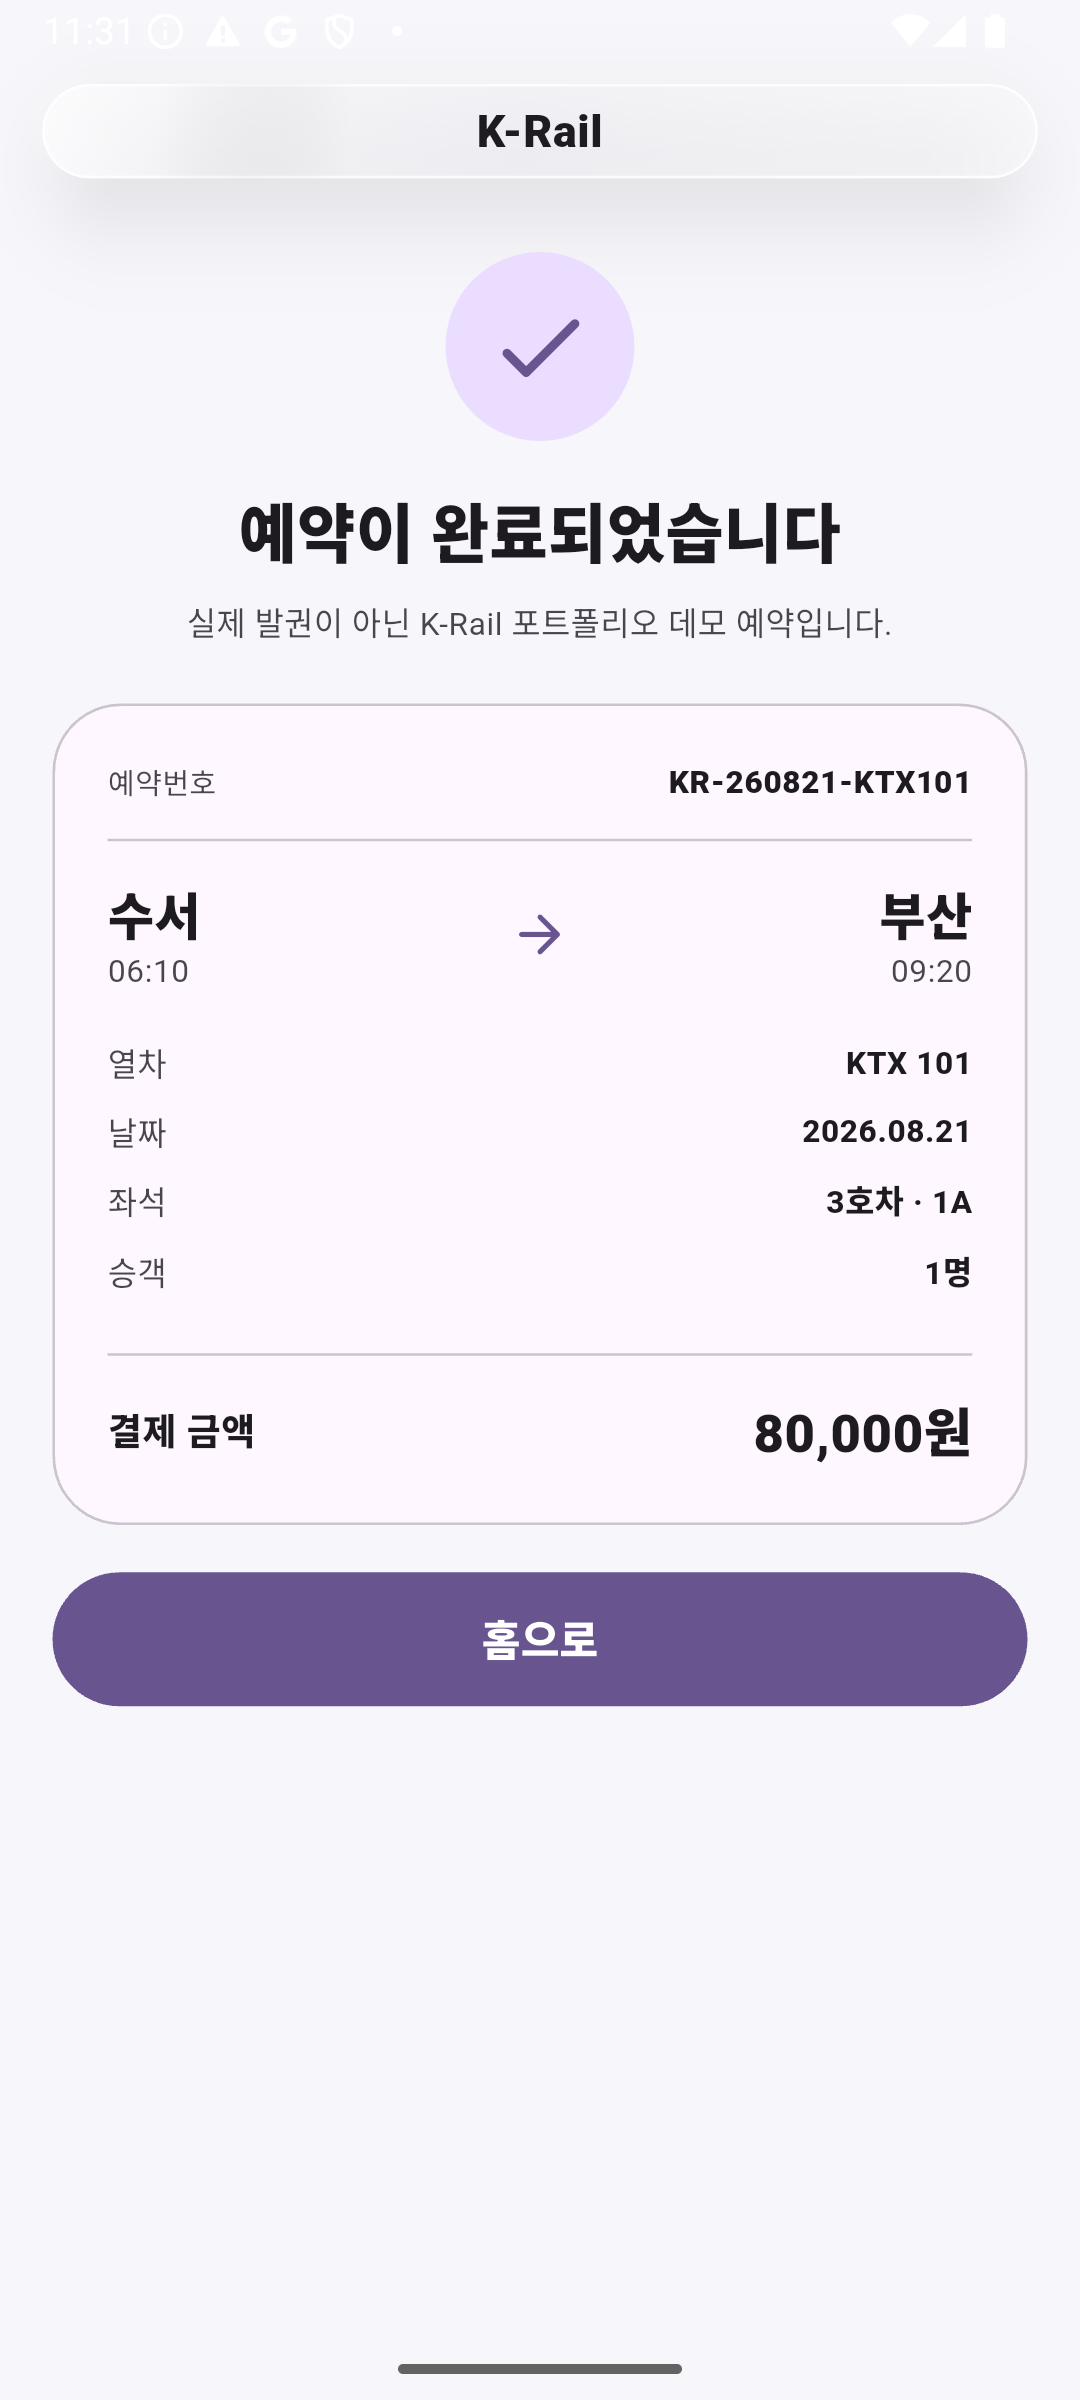
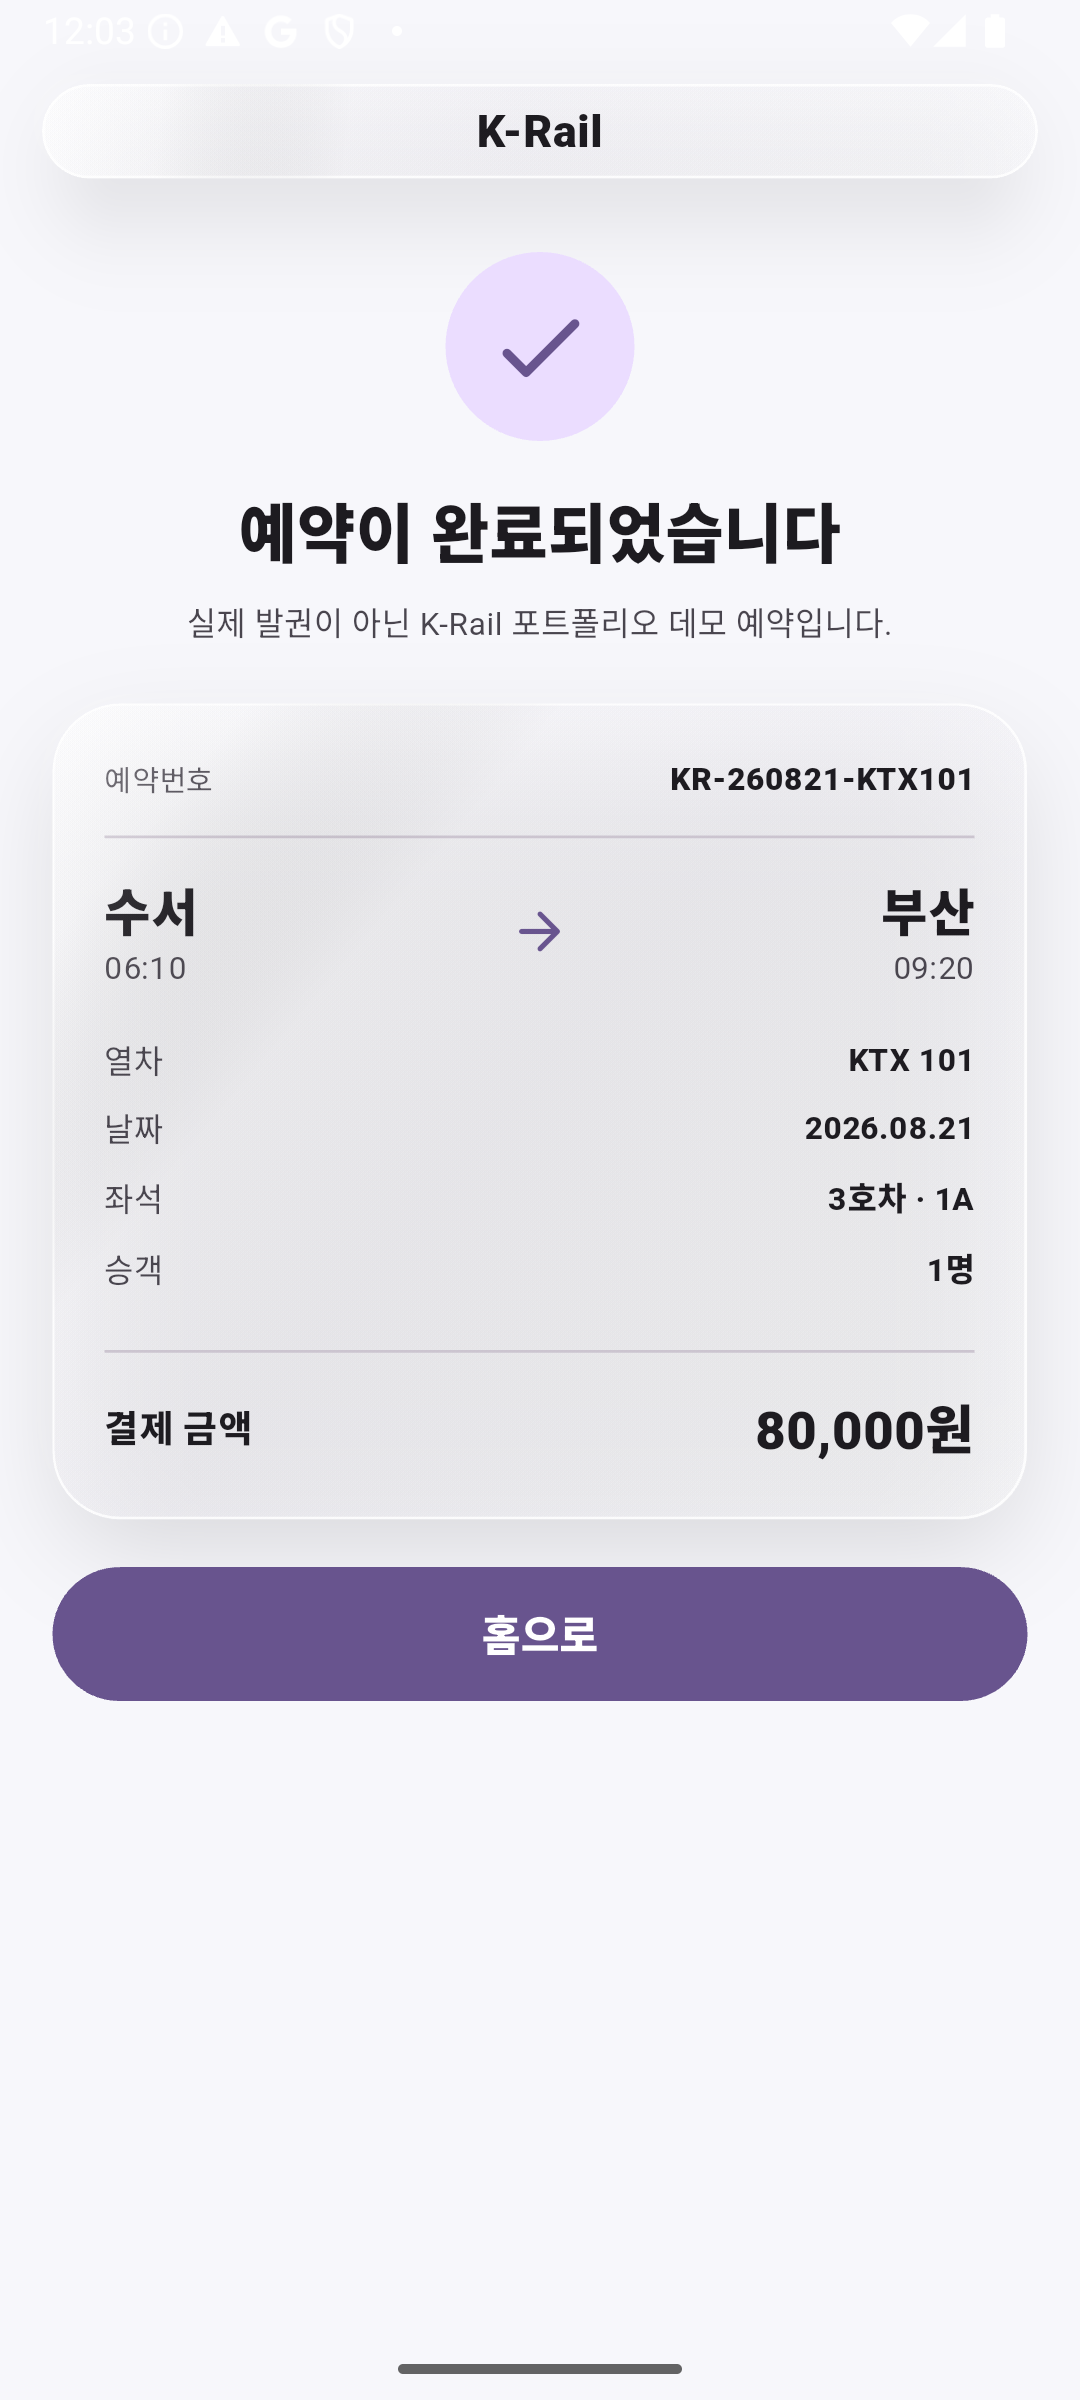
Refine liquid glass portfolio surfaces

Changed region(s): [[0.0917, 0.3125, 0.9167, 0.7188], [0.0611, 0.3125, 0.3972, 0.5312]]

diff --git a/lib/train_schedule.dart b/lib/train_schedule.dart
@@ -167,74 +167,72 @@ class _TrainSchedulePageState extends State<TrainSchedulePage>
     final scheme = Theme.of(context).colorScheme;
     final date = DateFormat('M월 d일 (E)', 'ko').format(widget.departureDate);
 
-    return Container(
-      width: double.infinity,
-      margin: const EdgeInsets.fromLTRB(16, 12, 16, 10),
-      padding: const EdgeInsets.all(18),
-      decoration: BoxDecoration(
-        color: scheme.primaryContainer,
+    return Padding(
+      padding: const EdgeInsets.fromLTRB(16, 12, 16, 10),
+      child: AppGlassSurface(
         borderRadius: BorderRadius.circular(24),
-      ),
-      child: Column(
-        children: [
-          Row(
-            children: [
-              Expanded(
-                child: _stationSummary(
-                  AppLocalizations.of(context).translate('출발'),
-                  widget.departureStation,
-                  CrossAxisAlignment.start,
-                ),
-              ),
-              Padding(
-                padding: const EdgeInsets.symmetric(horizontal: 8),
-                child: Icon(
-                  Icons.arrow_forward_rounded,
-                  color: scheme.primary,
-                ),
-              ),
-              Expanded(
-                child: _stationSummary(
-                  AppLocalizations.of(context).translate('도착'),
-                  widget.arrivalStation,
-                  CrossAxisAlignment.end,
-                ),
-              ),
-            ],
-          ),
-          const SizedBox(height: 14),
-          Container(
-            padding: const EdgeInsets.symmetric(horizontal: 12, vertical: 10),
-            decoration: BoxDecoration(
-              color: scheme.surface.withValues(alpha: 0.72),
-              borderRadius: BorderRadius.circular(14),
-            ),
-            child: Row(
+        blurSigma: 14,
+        padding: const EdgeInsets.all(18),
+        child: Column(
+          children: [
+            Row(
               children: [
-                const Icon(Icons.calendar_today_outlined, size: 17),
-                const SizedBox(width: 8),
-                Text(date, style: const TextStyle(fontWeight: FontWeight.w700)),
-                const Spacer(),
-                const Icon(Icons.person_outline_rounded, size: 18),
-                const SizedBox(width: 5),
-                Text(
-                  '$_passengerCount${AppLocalizations.of(context).translate('명')}',
-                  style: const TextStyle(fontWeight: FontWeight.w700),
+                Expanded(
+                  child: _stationSummary(
+                    AppLocalizations.of(context).translate('출발'),
+                    widget.departureStation,
+                    CrossAxisAlignment.start,
+                  ),
                 ),
-                const SizedBox(width: 10),
-                Text(
-                  widget.isRoundTrip
-                      ? AppLocalizations.of(context).translate('왕복')
-                      : AppLocalizations.of(context).translate('편도'),
-                  style: TextStyle(
+                Padding(
+                  padding: const EdgeInsets.symmetric(horizontal: 8),
+                  child: Icon(
+                    Icons.arrow_forward_rounded,
                     color: scheme.primary,
-                    fontWeight: FontWeight.w800,
+                  ),
+                ),
+                Expanded(
+                  child: _stationSummary(
+                    AppLocalizations.of(context).translate('도착'),
+                    widget.arrivalStation,
+                    CrossAxisAlignment.end,
                   ),
                 ),
               ],
             ),
-          ),
-        ],
+            const SizedBox(height: 14),
+            AppGlassSurface(
+              borderRadius: BorderRadius.circular(14),
+              blurSigma: 8,
+              padding: const EdgeInsets.symmetric(horizontal: 12, vertical: 10),
+              child: Row(
+                children: [
+                  const Icon(Icons.calendar_today_outlined, size: 17),
+                  const SizedBox(width: 8),
+                  Text(date,
+                      style: const TextStyle(fontWeight: FontWeight.w700)),
+                  const Spacer(),
+                  const Icon(Icons.person_outline_rounded, size: 18),
+                  const SizedBox(width: 5),
+                  Text(
+                    '$_passengerCount${AppLocalizations.of(context).translate('명')}',
+                    style: const TextStyle(fontWeight: FontWeight.w700),
+                  ),
+                  const SizedBox(width: 10),
+                  Text(
+                    widget.isRoundTrip
+                        ? AppLocalizations.of(context).translate('왕복')
+                        : AppLocalizations.of(context).translate('편도'),
+                    style: TextStyle(
+                      color: scheme.primary,
+                      fontWeight: FontWeight.w800,
+                    ),
+                  ),
+                ],
+              ),
+            ),
+          ],
+        ),
       ),
     );
   }

diff --git a/lib/payment_page.dart b/lib/payment_page.dart
@@ -150,14 +150,10 @@ class _PaymentPageState extends State<PaymentPage> {
   Widget _buildJourneyCard() {
     final scheme = Theme.of(context).colorScheme;
     final schedule = widget.departureSchedule!;
-    return Container(
-      width: double.infinity,
+    return AppGlassSurface(
+      borderRadius: BorderRadius.circular(24),
+      blurSigma: 14,
       padding: const EdgeInsets.all(18),
-      decoration: BoxDecoration(
-        color: scheme.surface,
-        borderRadius: BorderRadius.circular(24),
-        border: Border.all(color: scheme.outlineVariant),
-      ),
       child: Column(
         crossAxisAlignment: CrossAxisAlignment.start,
         children: [
@@ -210,13 +206,10 @@ class _PaymentPageState extends State<PaymentPage> {
             ],
           ),
           const SizedBox(height: 15),
-          Container(
-            width: double.infinity,
+          AppGlassSurface(
+            borderRadius: BorderRadius.circular(14),
+            blurSigma: 8,
             padding: const EdgeInsets.symmetric(horizontal: 12, vertical: 10),
-            decoration: BoxDecoration(
-              color: scheme.surfaceContainerHighest,
-              borderRadius: BorderRadius.circular(14),
-            ),
             child: Row(
               children: [
                 const Icon(Icons.calendar_today_outlined, size: 17),
@@ -264,7 +257,6 @@ class _PaymentPageState extends State<PaymentPage> {
   }
 
   Widget _buildPassengerCard() {
-    final scheme = Theme.of(context).colorScheme;
     final passengerParts = <String>[];
     if (widget.adultCount > 0) {
       passengerParts.add(
@@ -279,14 +271,10 @@ class _PaymentPageState extends State<PaymentPage> {
           '${AppLocalizations.of(context).translate('경로')} ${widget.seniorCount}');
     }
 
-    return Container(
-      width: double.infinity,
+    return AppGlassSurface(
+      borderRadius: BorderRadius.circular(24),
+      blurSigma: 12,
       padding: const EdgeInsets.all(18),
-      decoration: BoxDecoration(
-        color: scheme.surface,
-        borderRadius: BorderRadius.circular(24),
-        border: Border.all(color: scheme.outlineVariant),
-      ),
       child: Column(
         crossAxisAlignment: CrossAxisAlignment.start,
         children: [
@@ -337,15 +325,10 @@ class _PaymentPageState extends State<PaymentPage> {
   }
 
   Widget _buildPriceCard() {
-    final scheme = Theme.of(context).colorScheme;
-    return Container(
-      width: double.infinity,
+    return AppGlassSurface(
+      borderRadius: BorderRadius.circular(24),
+      blurSigma: 12,
       padding: const EdgeInsets.all(18),
-      decoration: BoxDecoration(
-        color: scheme.surface,
-        borderRadius: BorderRadius.circular(24),
-        border: Border.all(color: scheme.outlineVariant),
-      ),
       child: Column(
         crossAxisAlignment: CrossAxisAlignment.start,
         children: [
@@ -520,14 +503,10 @@ class _PaymentPageState extends State<PaymentPage> {
                           fontSize: 12, color: scheme.onSurfaceVariant),
                     ),
                     const SizedBox(height: 22),
-                    Container(
-                      width: double.infinity,
+                    AppGlassSurface(
+                      borderRadius: BorderRadius.circular(26),
+                      blurSigma: 14,
                       padding: const EdgeInsets.all(20),
-                      decoration: BoxDecoration(
-                        color: scheme.surface,
-                        borderRadius: BorderRadius.circular(26),
-                        border: Border.all(color: scheme.outlineVariant),
-                      ),
                       child: Column(
                         children: [
                           Row(

diff --git a/lib/seat_page.dart b/lib/seat_page.dart
@@ -198,13 +198,10 @@ class _SeatPageState extends State<SeatPage> {
     final scheme = Theme.of(context).colorScheme;
     final schedule = _currentSchedule;
     final duration = schedule.arrivalTime.difference(schedule.departureTime);
-    return Container(
-      width: double.infinity,
+    return AppGlassSurface(
+      borderRadius: BorderRadius.circular(24),
+      blurSigma: 14,
       padding: const EdgeInsets.all(18),
-      decoration: BoxDecoration(
-        color: scheme.primaryContainer,
-        borderRadius: BorderRadius.circular(24),
-      ),
       child: Column(
         crossAxisAlignment: CrossAxisAlignment.start,
         children: [
@@ -306,14 +303,19 @@ class _SeatPageState extends State<SeatPage> {
   }
 
   Widget _buildLegend() {
-    return Wrap(
-      spacing: 12,
-      runSpacing: 8,
-      children: [
-        _legendItem('선택 가능', SeatVisualState.available),
-        _legendItem('선택됨', SeatVisualState.selected),
-        _legendItem('선택 불가', SeatVisualState.unavailable),
-      ],
+    return AppGlassSurface(
+      borderRadius: BorderRadius.circular(18),
+      blurSigma: 10,
+      padding: const EdgeInsets.symmetric(horizontal: 12, vertical: 10),
+      child: Wrap(
+        spacing: 12,
+        runSpacing: 8,
+        children: [
+          _legendItem('선택 가능', SeatVisualState.available),
+          _legendItem('선택됨', SeatVisualState.selected),
+          _legendItem('선택 불가', SeatVisualState.unavailable),
+        ],
+      ),
     );
   }
 

diff --git a/README.md b/README.md
@@ -16,7 +16,7 @@ This is a 2026 UX renewal of the Flutter booking app I originally built while le
 | Navigation | Standard AppBar | Compact floating glass toolbar |
 | Seat/payment action | Opaque bottom bars | Glass bottom action layer with solid transactional content |
 | Accessibility | Material defaults | High-contrast opaque fallback, reduced-motion support, semantics, large tap targets |
-| Rendering | Styling-first | Blur limited to compact controls; schedule/seat/payment content stays solid |
+| Rendering | Styling-first | Glass-themed surface hierarchy for route, schedule, seat legend, booking review, and confirmation summaries while dense lists/grids stay solid |
 
 ### Overview / 프로젝트 소개
 
@@ -77,8 +77,9 @@ These screenshots were captured from the running Flutter app on an **Android Emu
 
 `lib/v2/v2_glass.dart`에 공통 renderer를 분리해 화면에서는 동일한 `AppGlass*` contract만 사용합니다. 향후 native material이나 shader renderer로 바꾸더라도 예약 화면의 제품 로직을 크게 수정하지 않아도 되는 경계를 의도했습니다.
 
-- **Content stays content / 콘텐츠는 solid 유지** — journey hero, train cards, seat map, fare breakdown, ticket/confirmation card는 blur 처리하지 않습니다.
-- **Controls float / 조작부만 glass** — station/passenger selection, trip segmented control, toolbar, seat/payment bottom actions에만 선택적으로 translucency를 사용합니다.
+- **Dense content stays sharp / 밀도 높은 콘텐츠는 선명하게 유지** — train list item과 seat map처럼 반복·선택 밀도가 높은 영역은 solid surface로 유지합니다.
+- **Summary hierarchy / 요약 정보도 glass 계층화** — route/schedule summary, seat legend, booking review의 journey·passenger·fare summary, confirmation ticket에는 낮은 강도의 translucency를 사용합니다.
+- **Controls float / 조작부 glass** — station/passenger selection, trip segmented control, toolbar, seat/payment bottom actions에는 더 강한 Liquid Glass-inspired control layer를 사용합니다.
 - **High contrast / 고대비** — `MediaQuery.highContrast`에서는 blur를 제거하고 opacity를 높입니다.
 - **Reduced motion / 모션 감소** — `MediaQuery.disableAnimations`에서는 segmented-control animation duration을 0으로 줄입니다.
 - **Performance / 성능** — list item·좌석마다 `BackdropFilter`를 만들지 않고 작은 control surface로 blur 영역을 제한합니다.
